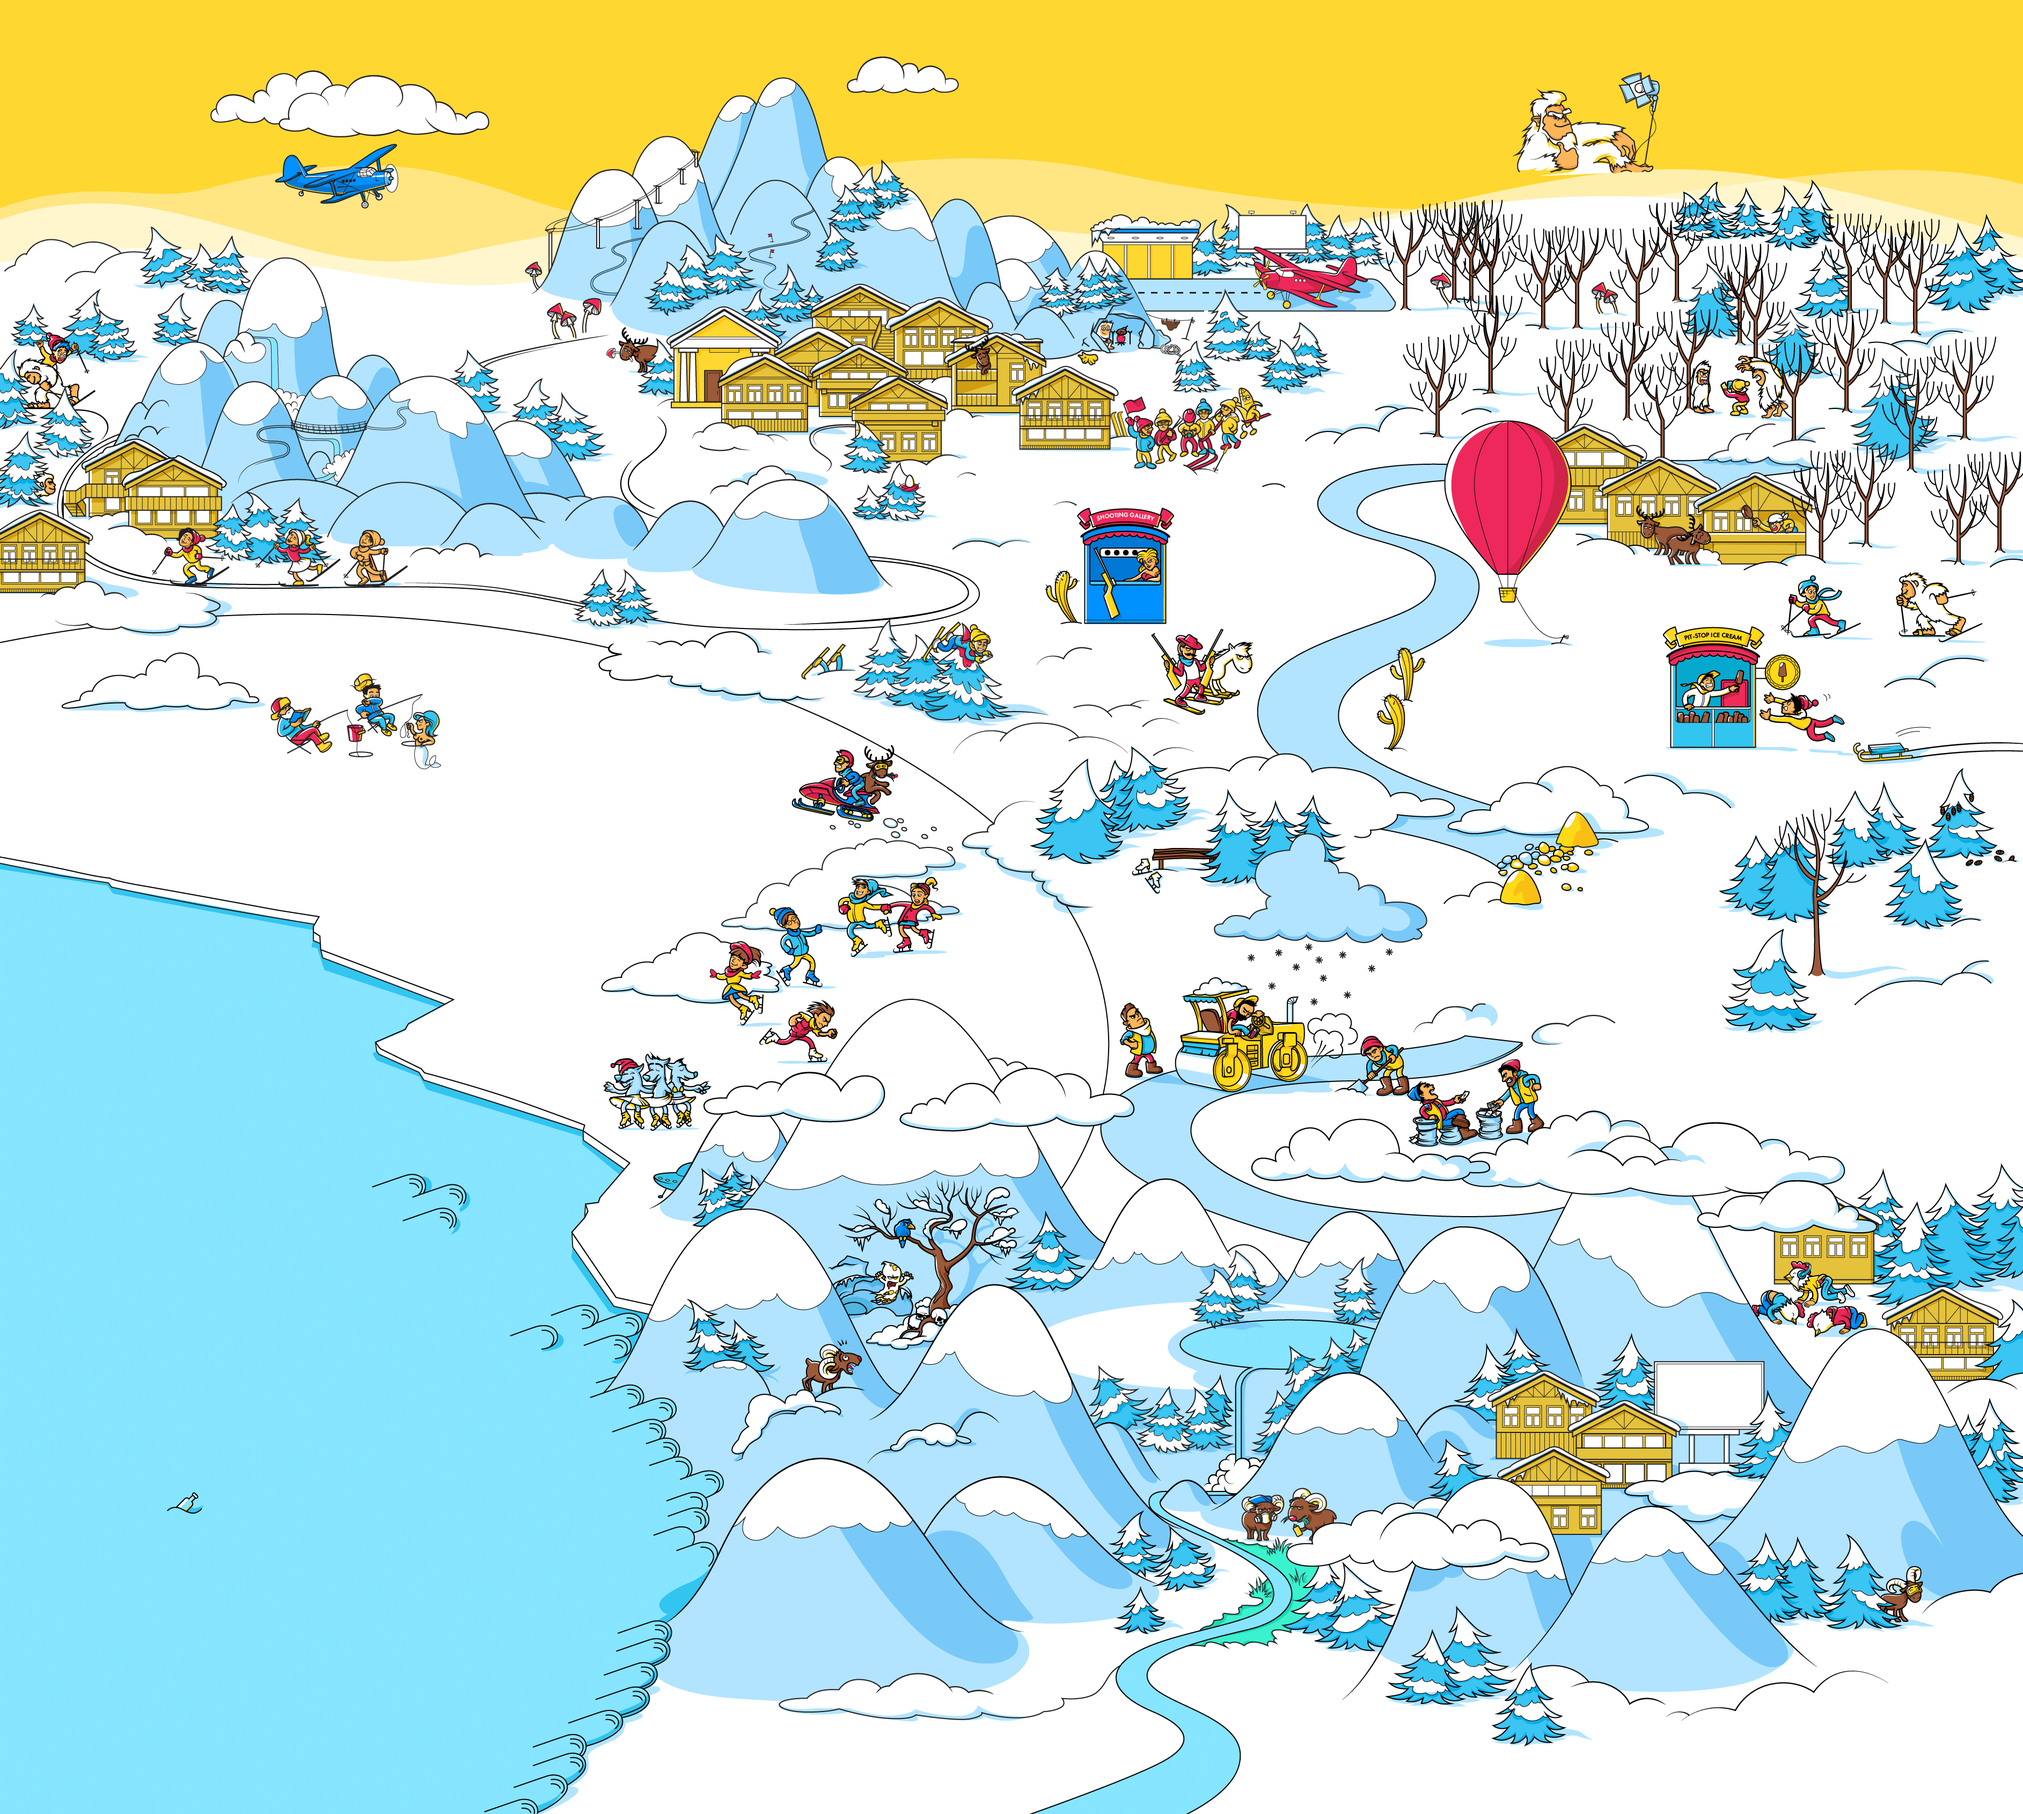
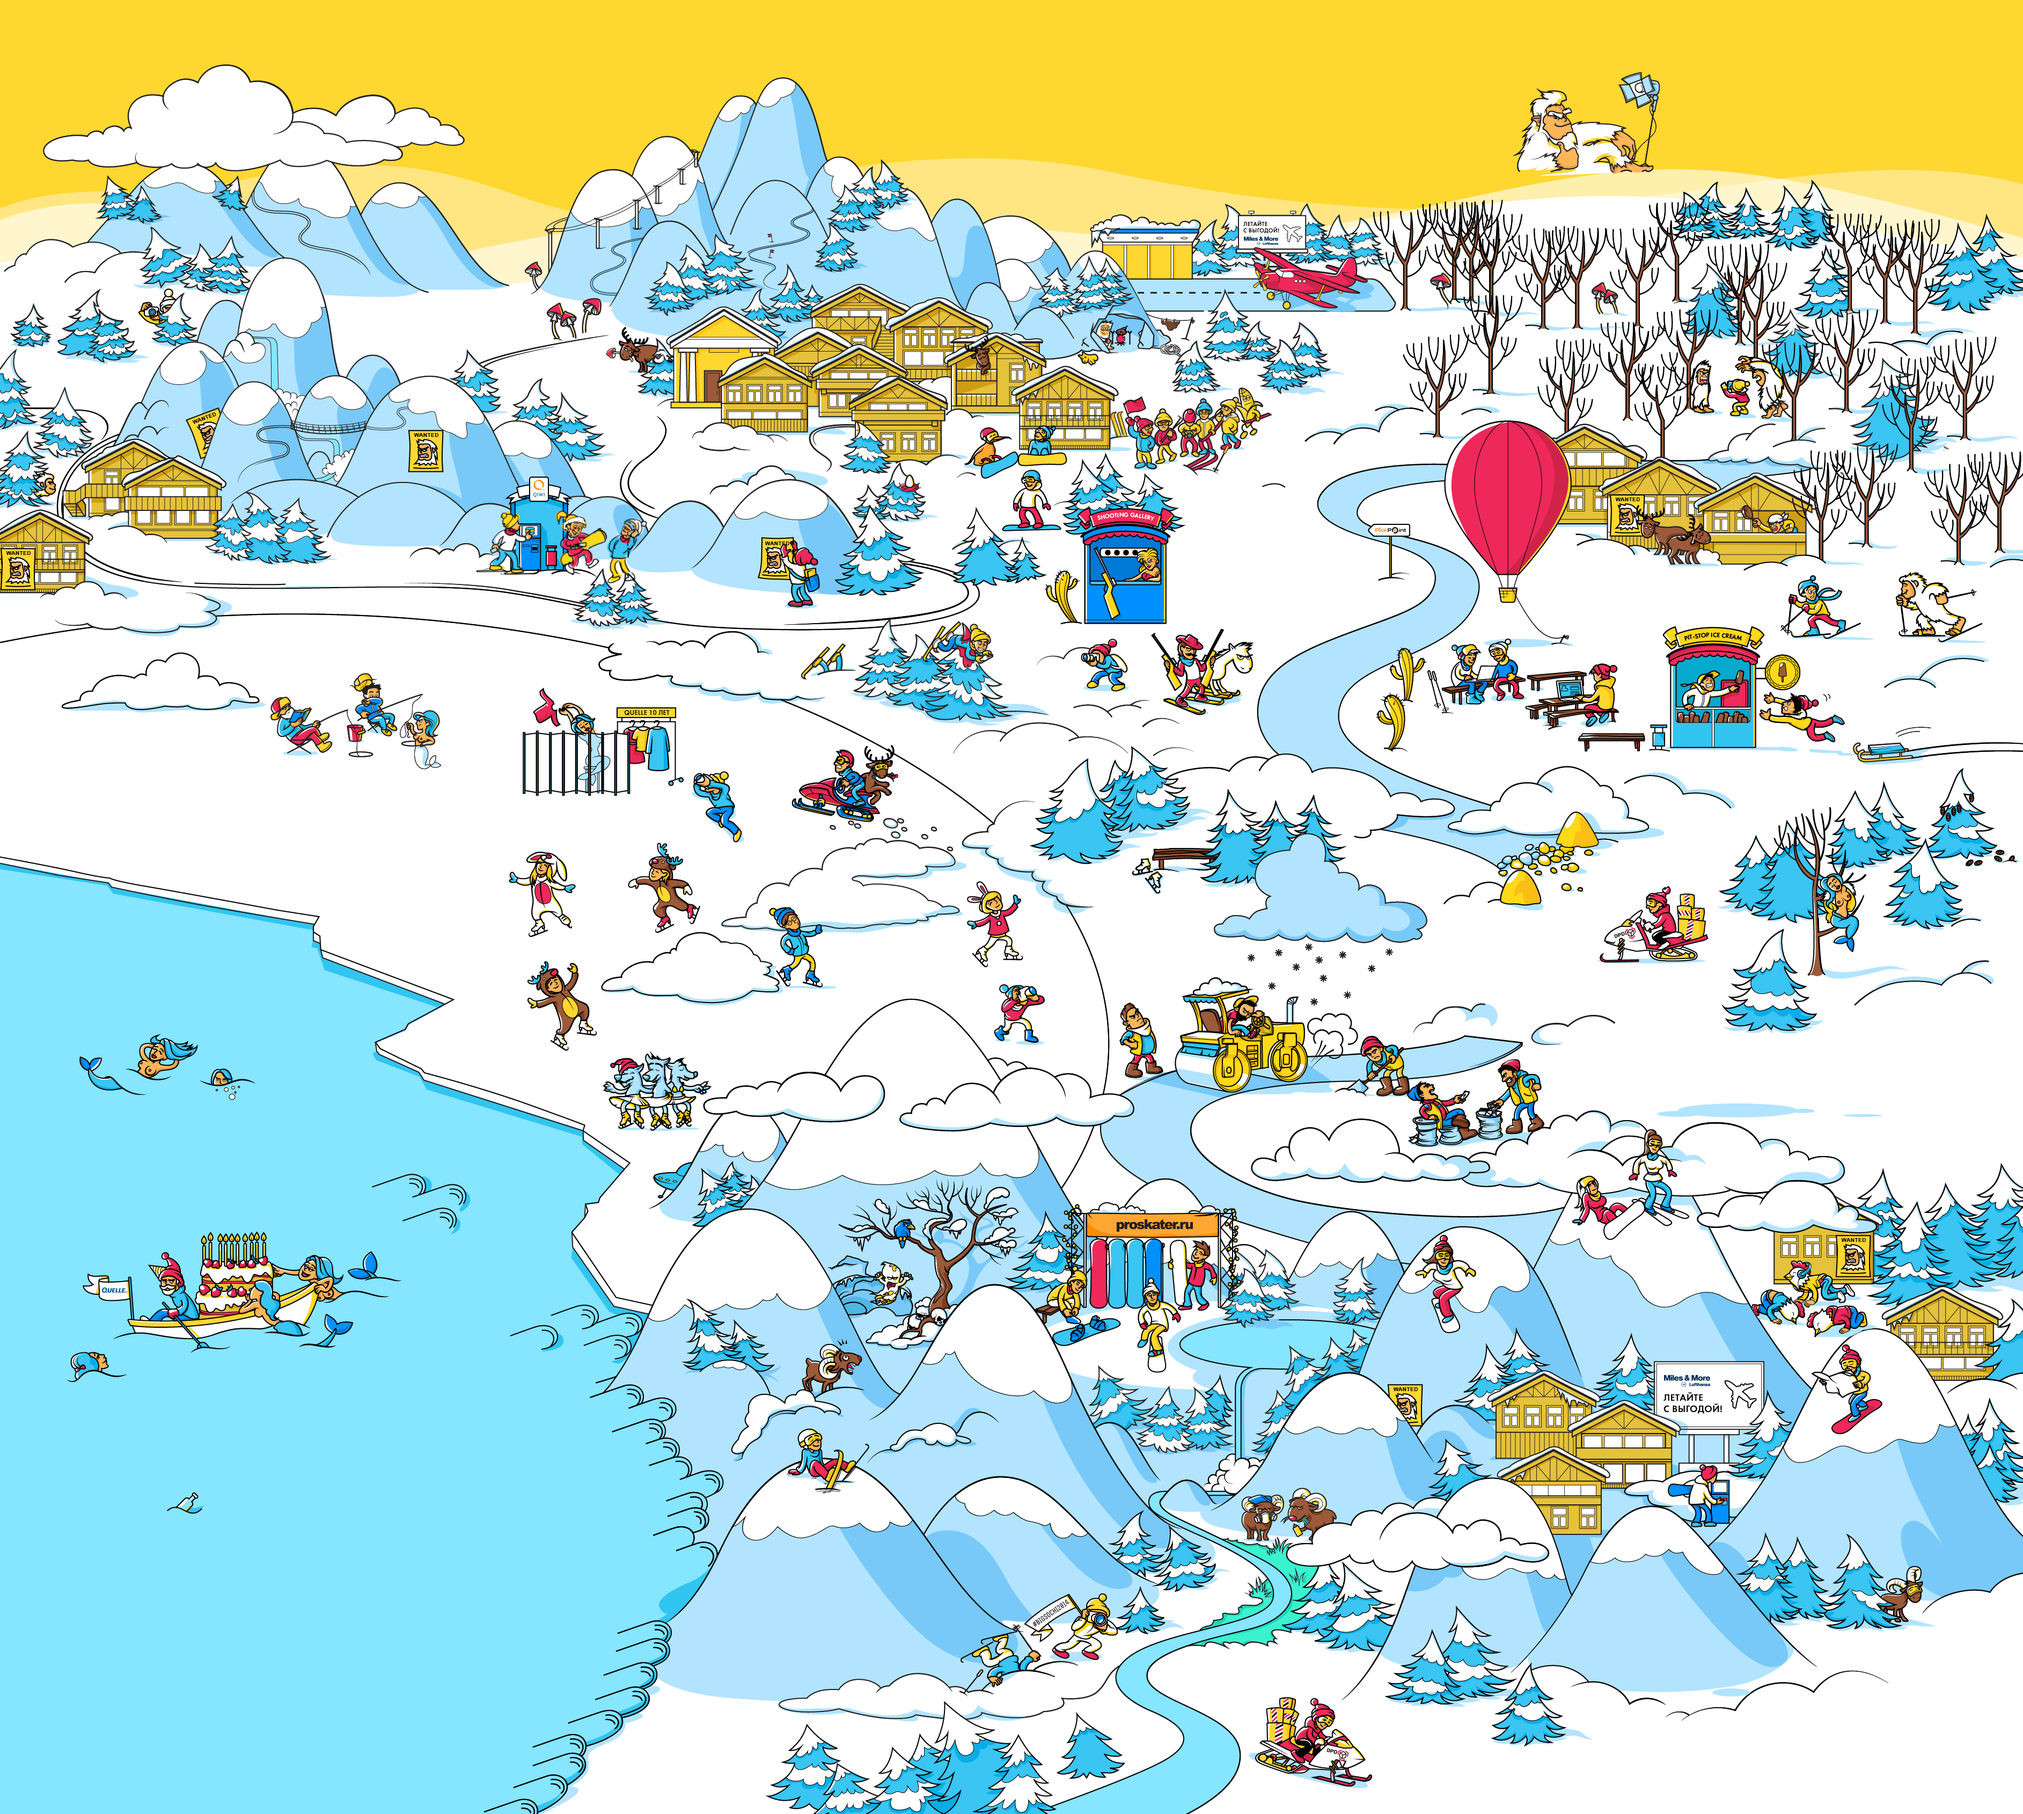
feat(stmGameMap): апдейт фона (1,5ч)

diff --git a/src/stmIndex/directives/stmIndexMap/b-map.css b/src/stmIndex/directives/stmIndexMap/b-map.css
@@ -79,3 +79,34 @@
   text-transform: uppercase;
   text-align: center;
 }
+
+/* decor */
+.b-map-decor {
+    background: url("asset/i/b-gameMap/b-map-decor.png") 0 0 no-repeat;
+    position: absolute;
+    z-index: 100;
+}
+
+.b-map-decor.mod_cloud1 {
+    background-position: 0px 0px;
+    width: 521px;
+    height: 125px;
+    top: 140px;
+    left: 970px;
+}
+
+.b-map-decor.mod_cloud2 {
+    background-position: 0px -145px;
+    width: 210px;
+    height: 69px;
+    top: 50px;
+    left: 1500px;
+}
+
+.b-map-decor.mod_tree {
+    background-position: -230px -145px;
+    width: 47px;
+    height: 46px;
+    left: 96px;
+    top: 720px;
+}

diff --git a/src/stmIndex/directives/stmIndexMap/template.html b/src/stmIndex/directives/stmIndexMap/template.html
@@ -60,6 +60,11 @@
       </div>
     </div>
     <!-- End climber -->
+
+    <div class="b-map-decor mod_cloud1"></div>
+    <div class="b-map-decor mod_cloud2"></div>
+    <div class="b-map-decor mod_tree"></div>
+
   </div>
 </div>
 <!-- End MAP -->
